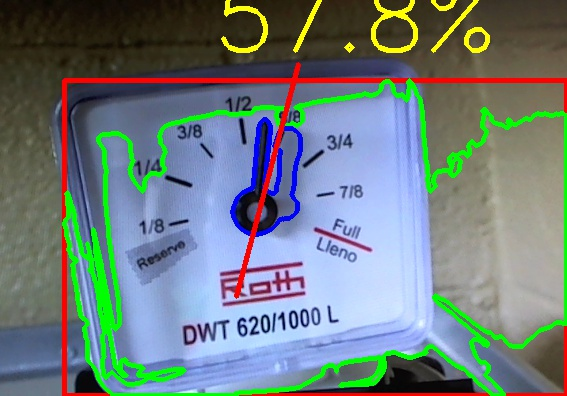
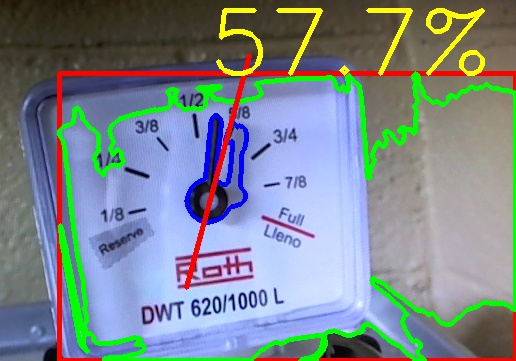
Move output percentage

diff --git a/oilmeter.py b/oilmeter.py
@@ -134,7 +134,7 @@ for i in (1, 3):
     if (box[i][1] > maxy): maxy = box[i][1]
 
 # display the percentage above the bounding box
-cv2.putText(img,"{:4.1f}%".format(pct * 100),(minx+150,miny-30),cv2.FONT_HERSHEY_SIMPLEX,3.0,(0,255,255),4)
+cv2.putText(img,"{:4.1f}%".format(pct * 100),(minx+150,miny-0),cv2.FONT_HERSHEY_SIMPLEX,3.0,(0,255,255),4)
 
 # scale the extents for some background in the cropping
 cropscale = 1.5
